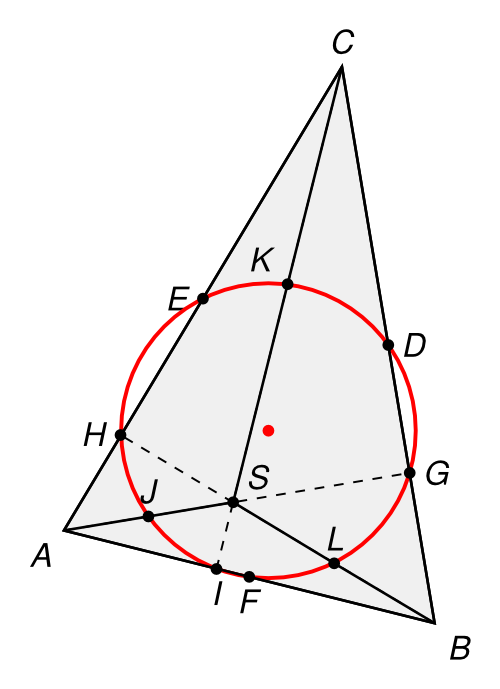
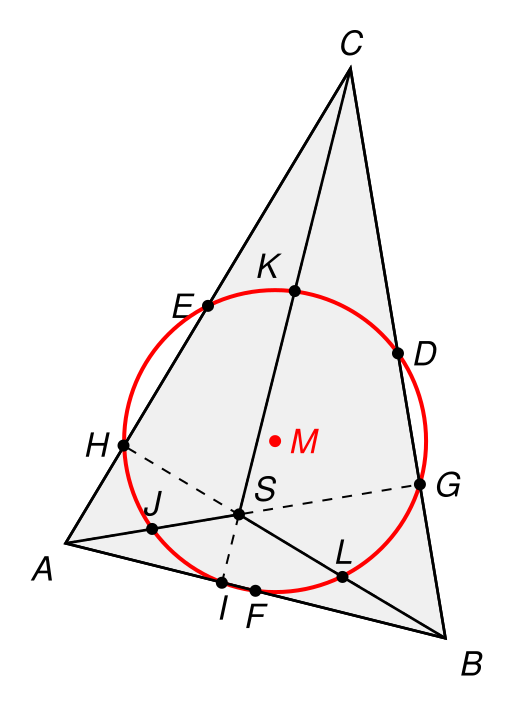
Improve quality

diff --git a/tikz/triangle-9-point-circle/triangle-9-point-circle.tex b/tikz/triangle-9-point-circle/triangle-9-point-circle.tex
@@ -31,8 +31,8 @@
     \tkzLabelPoints[left,font=\sansmath\sffamily](E)
     \tkzLabelPoints[below,font=\sansmath\sffamily](F)
 
-    \tkzDefCircle[circum,/tikz/overlay](D,E,F)\tkzGetPoint{Icircle}\tkzGetLength{rIN}
-    \tkzDrawCircle[R,color=red, very thick](Icircle,\rIN pt)
+    \tkzDefCircle[circum,/tikz/overlay](D,E,F)\tkzGetPoint{M}\tkzGetLength{rIN}
+    \tkzDrawCircle[R,color=red, very thick](M,\rIN pt)
 
     % Get 'Hoehe'
     \tkzInterLC[/tikz/overlay](B,C)(A,B)\tkzGetPoints{hah1}{hah2}
@@ -52,13 +52,13 @@
     \tkzLabelPoints[above right,font=\sansmath\sffamily](S)
 
     % More points
-    \tkzInterLC[/tikz/overlay,R](A,G)(Icircle,\rIN pt)\tkzGetPoints{G}{J}
+    \tkzInterLC[/tikz/overlay,R](A,G)(M,\rIN pt)\tkzGetPoints{G}{J}
     \tkzLabelPoints[above,font=\sansmath\sffamily](J)
 
-    \tkzInterLC[/tikz/overlay,R](B,H)(Icircle,\rIN pt)\tkzGetPoints{L}{H}
+    \tkzInterLC[/tikz/overlay,R](B,H)(M,\rIN pt)\tkzGetPoints{L}{H}
     \tkzLabelPoints[above,font=\sansmath\sffamily](L)
 
-    \tkzInterLC[/tikz/overlay,R](C,I)(Icircle,\rIN pt)\tkzGetPoints{I}{K}
+    \tkzInterLC[/tikz/overlay,R](C,I)(M,\rIN pt)\tkzGetPoints{I}{K}
     \tkzLabelPoints[above left,font=\sansmath\sffamily](K)
 
     % Draw rest
@@ -68,7 +68,8 @@
     \tkzDrawSegments[thick](B,L L,S)  % blue,very
 
     \tkzDrawPoints[size=2,fill=black](D,E,F,I,G,H,S,J,L,K)
-    \tkzDrawPoints[size=2,fill=red,color=red](Icircle)
+    \tkzDrawPoints[size=2,fill=red,color=red](M)
+    \tkzLabelPoints[right,font=\sansmath\sffamily,red](M)
 
     % Draw polygon
     \tkzDrawPolygon[thick](A,B,C)
